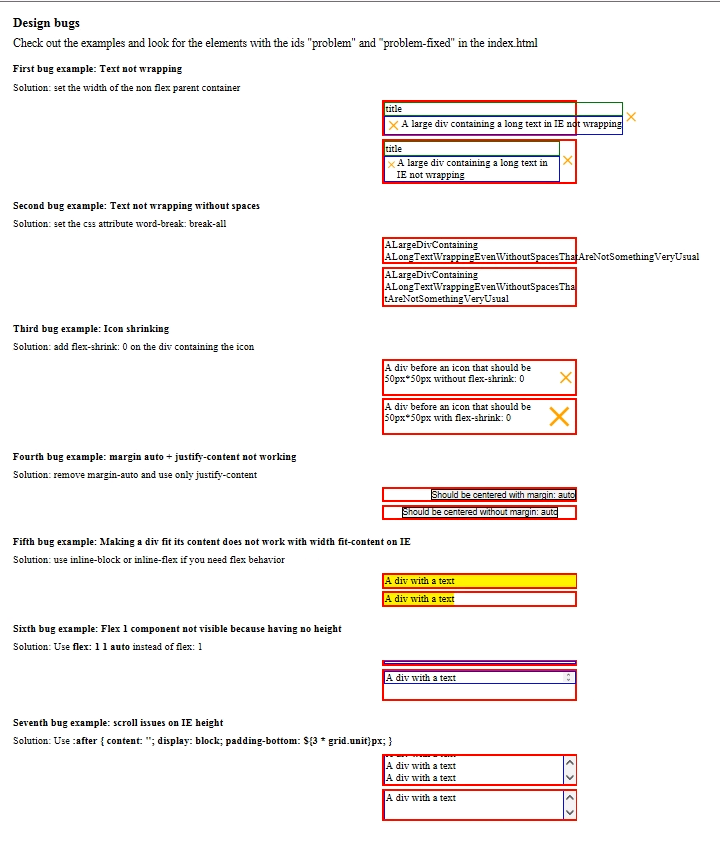
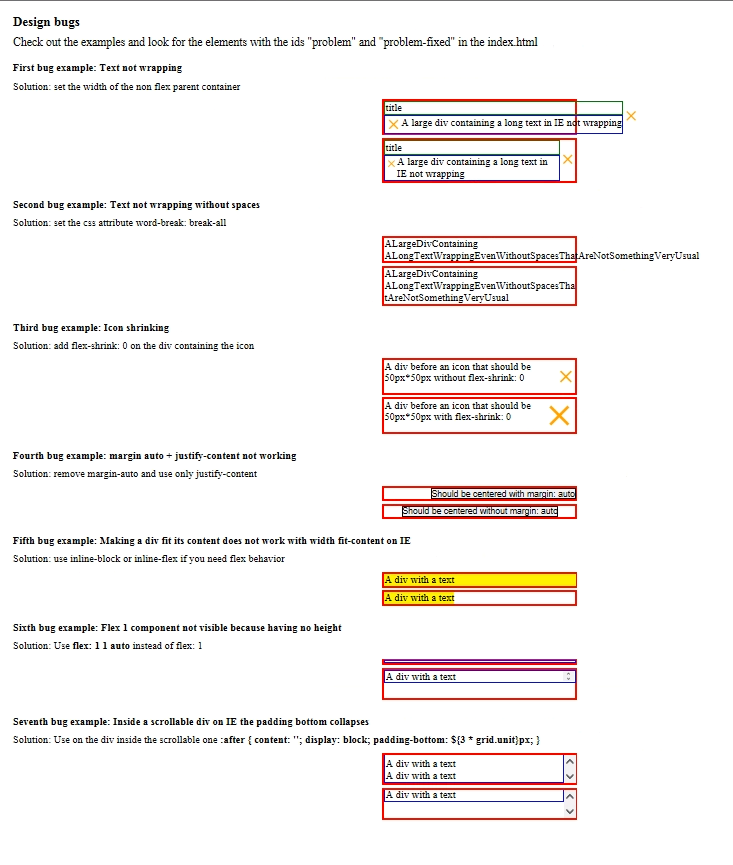
Clarify the issue number 7

diff --git a/index.html b/index.html
@@ -281,12 +281,11 @@
         <div class="example">
           <p>
             <strong>
-              Seventh bug example: scroll issues on IE
-              height
+              Seventh bug example: Inside a scrollable div on IE the padding bottom collapses
             </strong>
           </p>
           <p>
-            Solution: Use <strong>:after {
+            Solution: Use on the div inside the scrollable one <strong>:after {
               content: '';
               display: block;
               padding-bottom: ${3 * grid.unit}px;
@@ -295,17 +294,13 @@
           </p>
           <div
             class="container"
-            style="display: flex; flex-direction: column; height: 50px; overflow-y: auto;"
+            style="height: 50px; overflow-y: auto; padding-bottom: 24px;"
           >
             <div
               id="problem"
               style="
-                display: flex;
-                flex: 1 1 auto;
-                flex-direction: column;
                 border: 2px solid blue;
                 box-sizing: border-box;
-                padding-bottom: 24px; 
               "
             >
               <div >
@@ -332,19 +327,14 @@
             </div>
           </div>
           <div
-            class="container"
-            style="display: flex; flex-direction: column; height: 50px; overflow-y: auto;"
+            class="container scrollSolution"
+            style="height: 50px; overflow-y: auto;"
           >
             <div
               id="problem-fixed"
-              class="scrollSolution"
               style="
-                display: flex;
-                flex: 1 1 auto;
-                flex-direction: column;
                 border: 2px solid blue;
                 box-sizing: border-box;
-                padding-bottom: 24px;
               "
             >
             <div >
